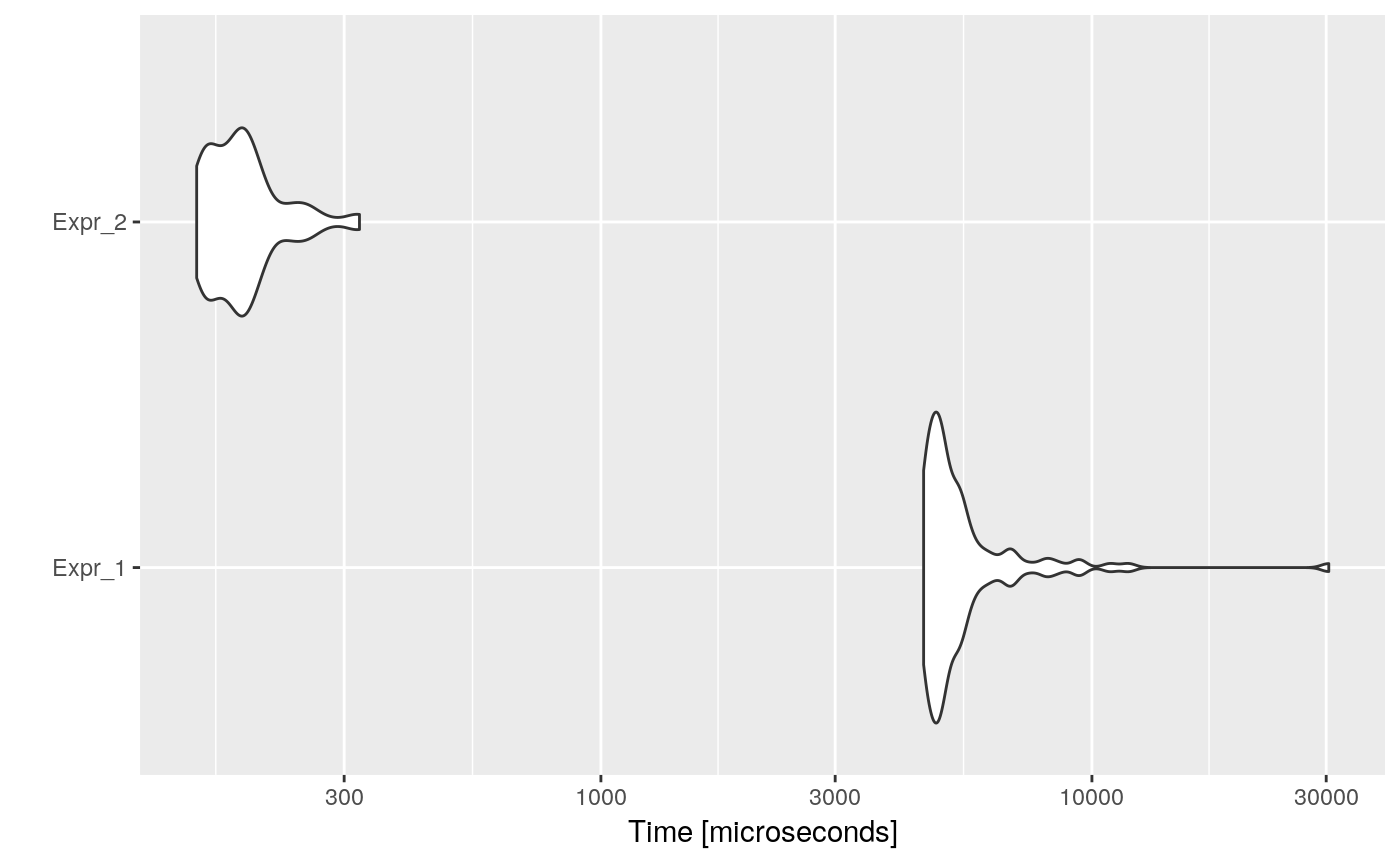
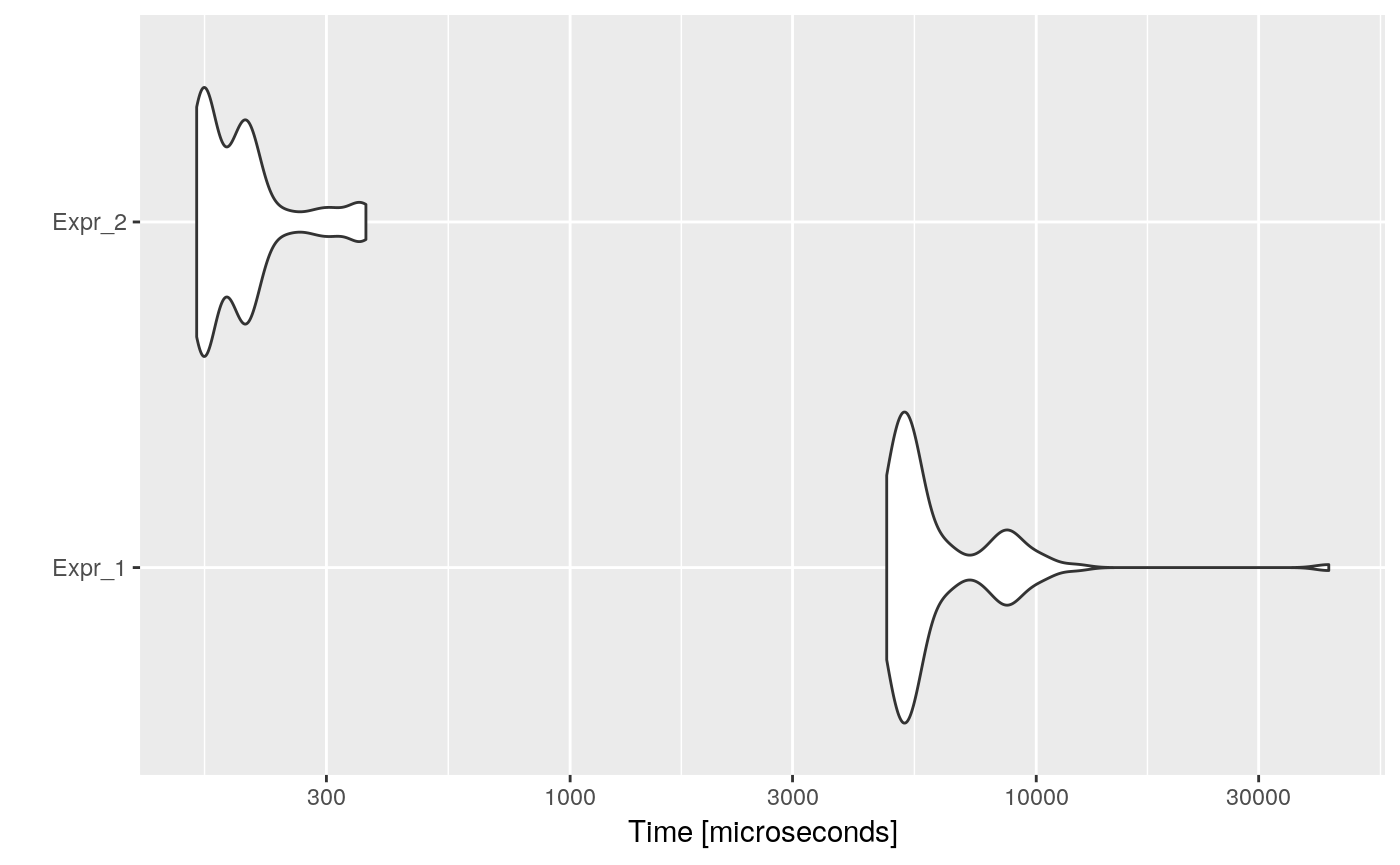
Fixing some Constant Propagation bugs

diff --git a/docs/index.html b/docs/index.html
@@ -95,15 +95,16 @@
 <a href="#rco---the-r-code-optimizer" class="anchor"></a>rco - The R Code Optimizer</h1></div>
 
 <p>This project is being supported by <a href="https://summerofcode.withgoogle.com/projects/#5337917017292800">Google Summer of Code 2019</a>.</p>
-<p>Thanks to the kind mentorship of Drs. <a href="https://yihui.name/en/">Yihui Xie</a> and <a href="https://cs.famaf.unc.edu.ar/~nicolasw/">Nicolás Wolovick</a>.</p>
+<p>Thanks to the kind mentorship of <a href="https://yihui.name/en/">Dr. Yihui Xie</a> and <a href="https://cs.famaf.unc.edu.ar/~nicolasw/">Dr. Nicolás Wolovick</a>.</p>
 <div id="installation" class="section level2">
 <h2 class="hasAnchor">
 <a href="#installation" class="anchor"></a>Installation</h2>
 <p><code>rco</code> is currently only available as a GitHub package.</p>
 <p>To install it run the following from an R console:</p>
-<div class="sourceCode" id="cb1"><pre class="sourceCode r"><code class="sourceCode r"><a class="sourceLine" id="cb1-1" data-line-number="1"><span class="cf">if</span> (<span class="op">!</span><span class="kw"><a href="https://www.rdocumentation.org/packages/base/topics/library">require</a></span>(<span class="st">"remotes"</span>))</a>
+<div class="sourceCode" id="cb1"><pre class="sourceCode r"><code class="sourceCode r"><a class="sourceLine" id="cb1-1" data-line-number="1"><span class="cf">if</span> (<span class="op">!</span><span class="kw"><a href="https://www.rdocumentation.org/packages/base/topics/library">require</a></span>(<span class="st">"remotes"</span>)) {</a>
 <a class="sourceLine" id="cb1-2" data-line-number="2">  <span class="kw"><a href="https://www.rdocumentation.org/packages/utils/topics/install.packages">install.packages</a></span>(<span class="st">"remotes"</span>)</a>
-<a class="sourceLine" id="cb1-3" data-line-number="3">remotes<span class="op">::</span><span class="kw">install_github</span>(<span class="st">"jcrodriguez1989/rco"</span>)</a></code></pre></div>
+<a class="sourceLine" id="cb1-3" data-line-number="3">}</a>
+<a class="sourceLine" id="cb1-4" data-line-number="4">remotes<span class="op">::</span><span class="kw"><a href="https://www.rdocumentation.org/packages/remotes/topics/install_github">install_github</a></span>(<span class="st">"jcrodriguez1989/rco"</span>)</a></code></pre></div>
 </div>
 <div id="usage" class="section level2">
 <h2 class="hasAnchor">
@@ -127,7 +128,8 @@
 <a class="sourceLine" id="cb3-10" data-line-number="10">  <span class="st">"} else {"</span>,</a>
 <a class="sourceLine" id="cb3-11" data-line-number="11">  <span class="st">'  print("Meh!")'</span>,</a>
 <a class="sourceLine" id="cb3-12" data-line-number="12">  <span class="st">"}"</span>,</a>
-<a class="sourceLine" id="cb3-13" data-line-number="13">  <span class="dt">sep =</span> <span class="st">"</span><span class="ch">\n</span><span class="st">"</span>)</a></code></pre></div>
+<a class="sourceLine" id="cb3-13" data-line-number="13">  <span class="dt">sep =</span> <span class="st">"</span><span class="ch">\n</span><span class="st">"</span></a>
+<a class="sourceLine" id="cb3-14" data-line-number="14">)</a></code></pre></div>
 <p>We can automatically optimize it by doing:</p>
 <div class="sourceCode" id="cb4"><pre class="sourceCode r"><code class="sourceCode r"><a class="sourceLine" id="cb4-1" data-line-number="1">opt_code &lt;-<span class="st"> </span><span class="kw"><a href="reference/optimize_text.html">optimize_text</a></span>(code)</a></code></pre></div>
 <pre><code>## # I want to know my age in seconds!

diff --git a/docs/articles/opt-constant-propagation.html b/docs/articles/opt-constant-propagation.html
@@ -163,8 +163,8 @@
 <a class="sourceLine" id="cb7-6" data-line-number="6"><span class="kw">autoplot</span>(bmark_res)</a></code></pre></div>
 <p><img src="opt-constant-propagation_files/figure-html/unnamed-chunk-6-1.png" width="700"></p>
 <div class="sourceCode" id="cb8"><pre class="sourceCode r"><code class="sourceCode r"><a class="sourceLine" id="cb8-1" data-line-number="1"><span class="kw">speed_up</span>(bmark_res)</a></code></pre></div>
-<pre><code>##           Min.  1st Qu.   Median     Mean  3rd Qu.     Max.
-## Expr_2 27.5155 26.67627 26.33695 29.38792 27.62149 110.7545</code></pre>
+<pre><code>##            Min.  1st Qu.   Median     Mean  3rd Qu.     Max.
+## Expr_2 28.33867 27.39104 25.57277 27.28912 27.43951 74.49953</code></pre>
 </div>
 <div id="implementation" class="section level2">
 <h2 class="hasAnchor">
@@ -215,6 +215,13 @@
 <a class="sourceLine" id="cb11-5" data-line-number="5">  x &lt;-<span class="st"> </span><span class="dv">3</span> <span class="op">+</span><span class="st"> </span><span class="dv">1</span></a>
 <a class="sourceLine" id="cb11-6" data-line-number="6">}</a></code></pre></div>
 <p>which is not equivalent.</p>
+</div>
+<div id="if-cond-body-else-body" class="section level3">
+<h3 class="hasAnchor">
+<a href="#if-cond-body-else-body" class="anchor"></a><code>IF (COND) { BODY } ELSE { BODY }</code>
+</h3>
+<p>If it is an <code>if</code>: it will get which variables are being assigned in the if/else <code>BODY</code> and remove them from <code>values</code>, and then propagate in <code>COND</code> and <code>BODY</code>.</p>
+<p>In-loop assigned variables are removed from <code>values</code>, as it is possible that the <code>BODY</code> is never executed (FALSE cond).</p>
 </div>
 <div id="var---expr" class="section level3">
 <h3 class="hasAnchor">

diff --git a/docs/articles/opt-constant-folding.html b/docs/articles/opt-constant-folding.html
@@ -145,8 +145,8 @@
 <a class="sourceLine" id="cb5-6" data-line-number="6"><span class="kw">autoplot</span>(bmark_res)</a></code></pre></div>
 <p><img src="opt-constant-folding_files/figure-html/unnamed-chunk-4-1.png" width="700"></p>
 <div class="sourceCode" id="cb6"><pre class="sourceCode r"><code class="sourceCode r"><a class="sourceLine" id="cb6-1" data-line-number="1"><span class="kw">speed_up</span>(bmark_res)</a></code></pre></div>
-<pre><code>##            Min.  1st Qu.   Median     Mean  3rd Qu.    Max.
-## Expr_2 30.23307 29.42191 27.46907 30.21779 27.36832 94.2033</code></pre>
+<pre><code>##            Min.  1st Qu.   Median     Mean  3rd Qu.     Max.
+## Expr_2 30.22737 31.21581 28.89811 32.45239 31.62054 116.3361</code></pre>
 </div>
 <div id="implementation" class="section level2">
 <h2 class="hasAnchor">

diff --git a/docs/articles/opt-dead-code.html b/docs/articles/opt-dead-code.html
@@ -181,7 +181,7 @@
 <p><img src="opt-dead-code_files/figure-html/unnamed-chunk-8-1.png" width="700"></p>
 <div class="sourceCode" id="cb10"><pre class="sourceCode r"><code class="sourceCode r"><a class="sourceLine" id="cb10-1" data-line-number="1"><span class="kw">speed_up</span>(bmark_res)</a></code></pre></div>
 <pre><code>##            Min.  1st Qu.   Median     Mean  3rd Qu.     Max.
-## Expr_2 77.77906 69.22096 52.54578 65.76184 53.36556 220.3513</code></pre>
+## Expr_2 78.73324 70.12233 46.13372 58.88012 55.52786 155.6999</code></pre>
 </div>
 <div id="implementation" class="section level2">
 <h2 class="hasAnchor">
